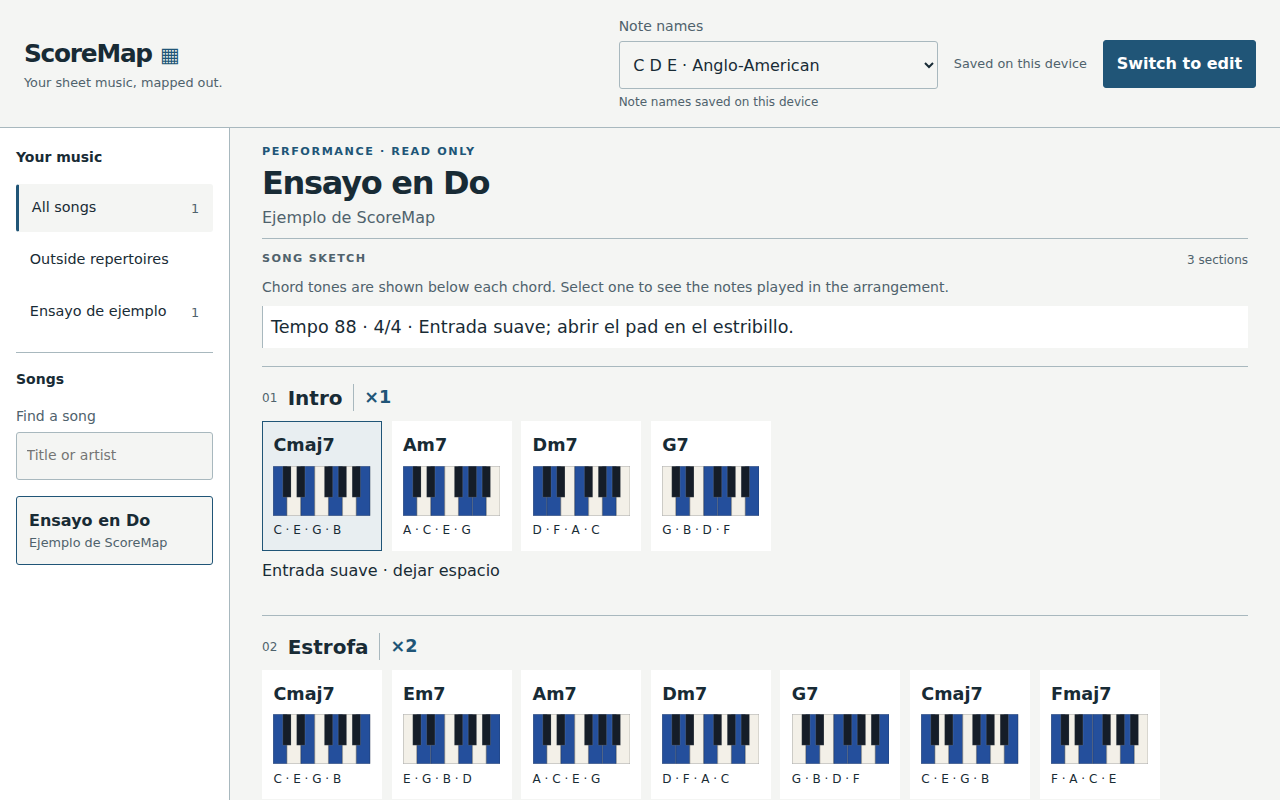
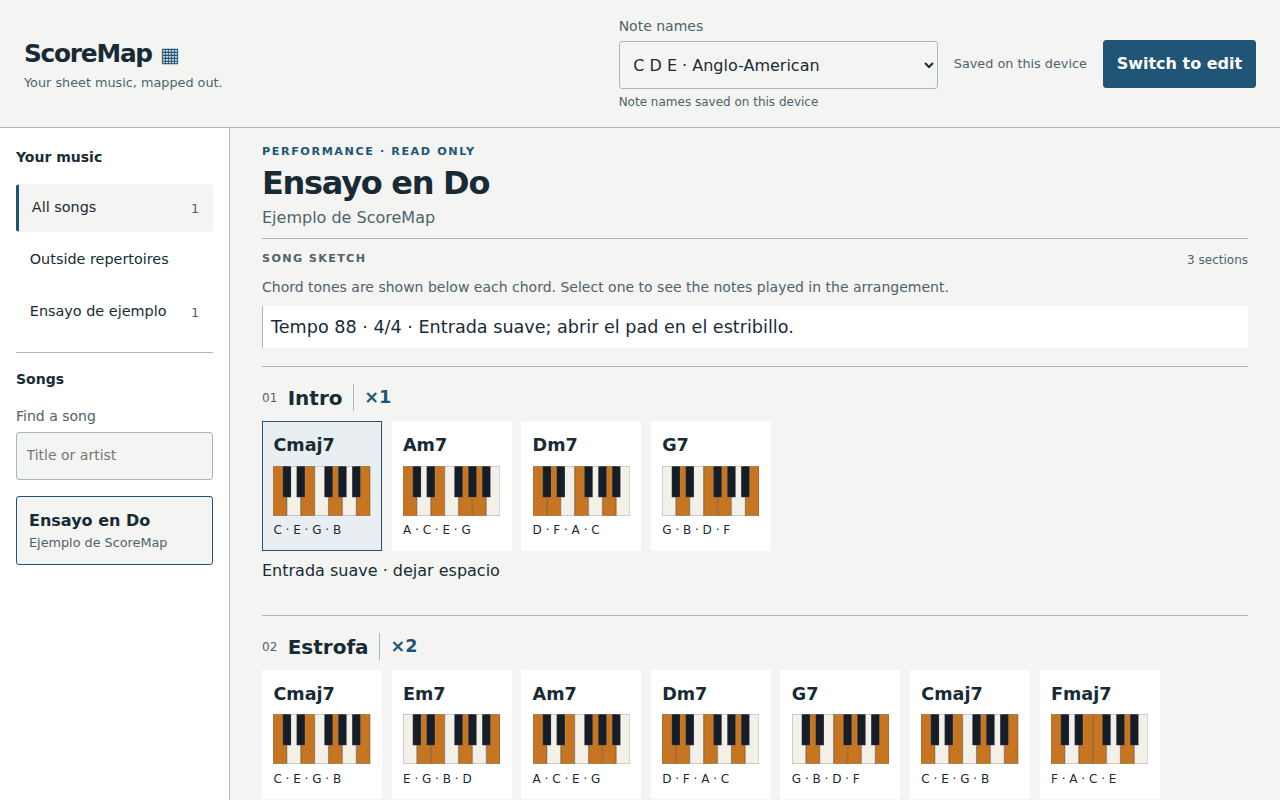
fix: improve contrast of highlighted piano keys (#39)

diff --git a/src/app/styles.css b/src/app/styles.css
@@ -10,8 +10,8 @@
   --lh-key-white: #f3f0e8;
   --lh-key-black: #151d28;
   --lh-key-ink: #121822;
-  --lh-key-mark: #244f9c;
-  --lh-key-mark-text: #ffffff;
+  --lh-key-mark: #c77520;
+  --lh-key-mark-text: #151d28;
   --lh-on-action: #ffffff;
   --lh-danger-text: #9e2424;
   --lh-error-surface: #fce9e7;
